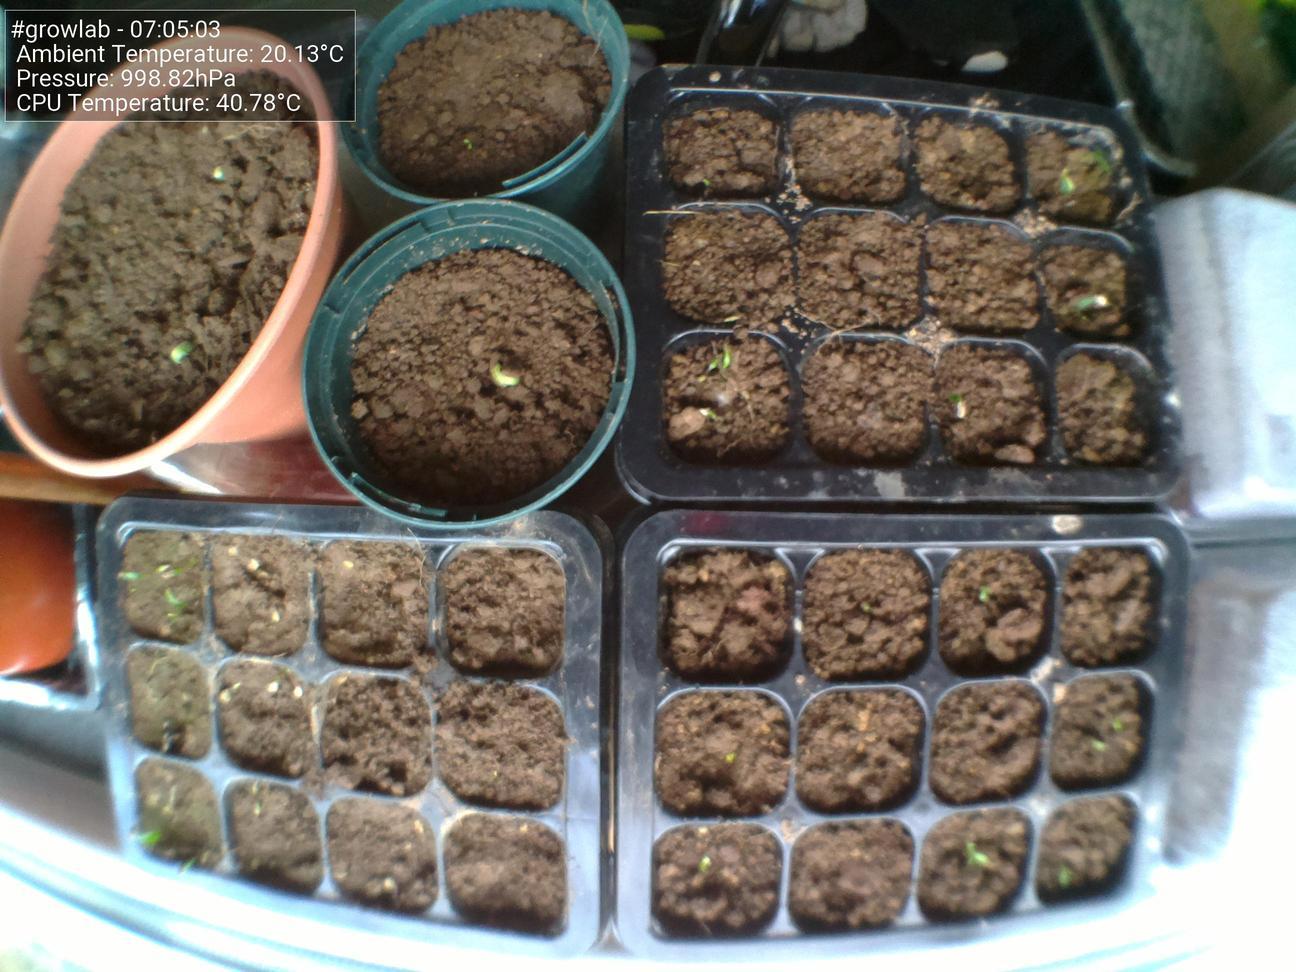
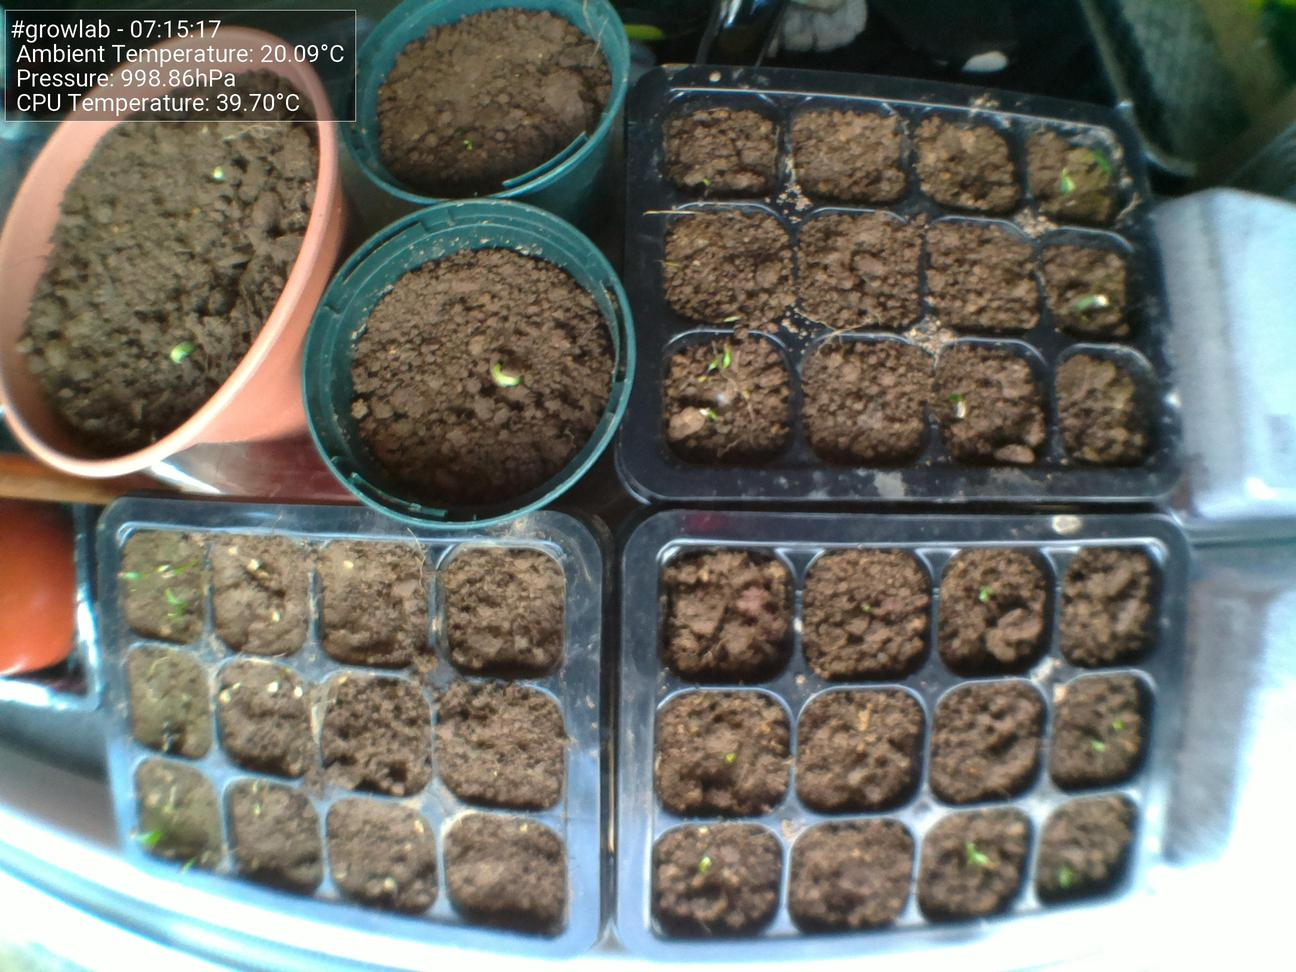
Update images at Sun 24 Apr 07:15:22 BST 2022

diff --git a/docs/index.html b/docs/index.html
@@ -44,15 +44,15 @@
                         <tbody>
                             <tr>
                                 <td>Time</td>
-                                <td>07:05:03</td>
+                                <td>07:15:17</td>
                             </tr>
                             <tr>
                                 <td>CPU Temp</td>
-                                <td>40.78°C</td>
+                                <td>39.70°C</td>
                             </tr>
                             <tr>
                                 <td>Ambient Temperature</td>
-                                <td>20.13°C</td>
+                                <td>20.09°C</td>
                             </tr>
                             <tr>
                                 <td>Humidity</td>
@@ -60,7 +60,7 @@
                             </tr>
                             <tr>
                                 <td>Pressure</td>
-                                <td>998.82hPa</td>
+                                <td>998.86hPa</td>
                             </tr>
                         </tbody>
                     </table>
@@ -68,7 +68,7 @@
 
                 <h5>Latest image</h5>
                 <div style="width: 85%;">
-                            <img class="figure-img img-fluid rounded" src="./preview.jpg?uid=1650780307.623766">
+                            <img class="figure-img img-fluid rounded" src="./preview.jpg?uid=1650780921.8674514">
                 </div>
             </div>
         </div>
